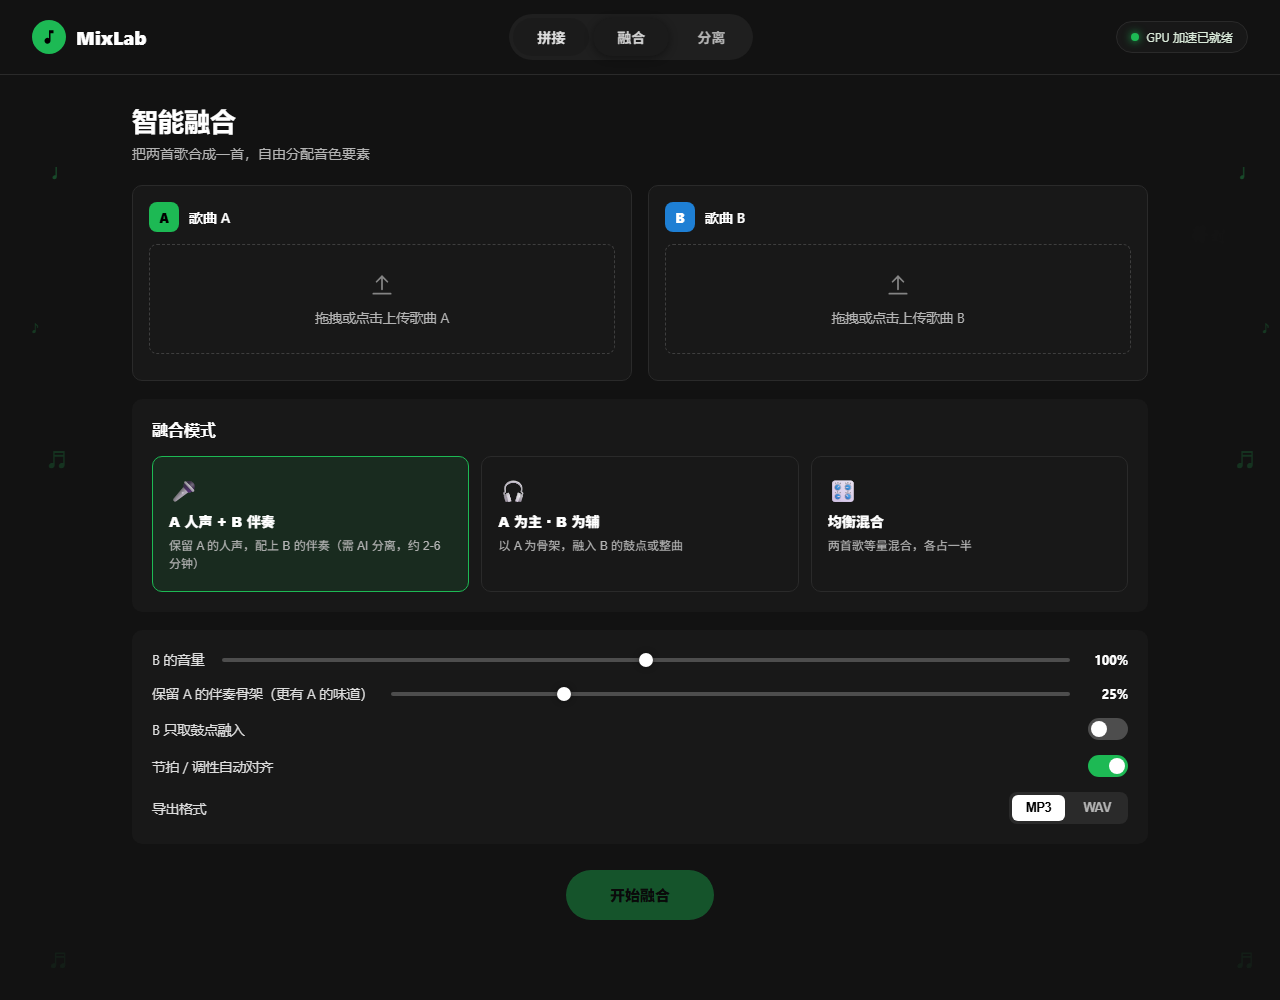
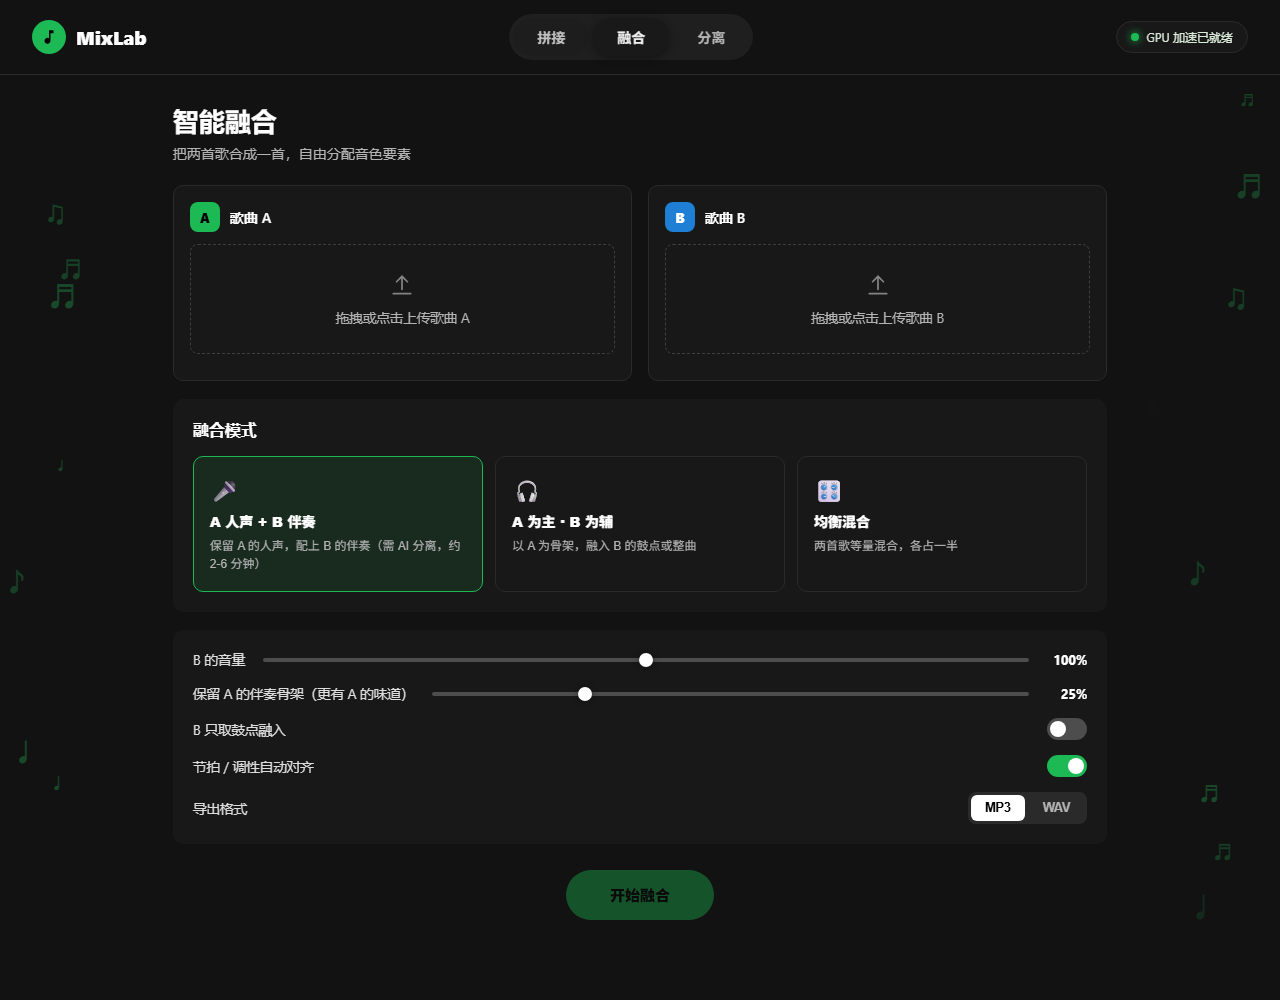
Give narrow windows wider side zones (78vw container) with more notes

diff --git a/frontend/app.js b/frontend/app.js
@@ -648,7 +648,7 @@ function showSideLyric(side) {
   if (!layer) return;
   const item = pickLyric();
   const W = window.innerWidth;
-  const contentW = Math.min(1080, W * 0.92);
+  const contentW = Math.min(1080, W * 0.78);
   const sideW = Math.max(80, (W - contentW) / 2);
   const el = document.createElement("div");
   el.className = `lyric-item side-${side}`;
@@ -704,7 +704,7 @@ function initLyricBg() {
     const dpr = window.devicePixelRatio || 1;
     W = window.innerWidth;
     H = window.innerHeight;
-    const contentW = Math.min(1080, W * 0.92);
+    const contentW = Math.min(1080, W * 0.78);
     sideW = Math.max(80, (W - contentW) / 2);
     canvas.width = W * dpr;
     canvas.height = H * dpr;
@@ -732,7 +732,7 @@ function initLyricBg() {
 
   function rebuild() {
     parts.length = 0;
-    const perSide = sideW < 180 ? 4 : sideW < 280 ? 6 : 8;
+    const perSide = sideW < 110 ? 5 : sideW < 200 ? 7 : 9;
     for (let i = 0; i < perSide; i++) parts.push(spawn(true, "left"));
     for (let i = 0; i < perSide; i++) parts.push(spawn(true, "right"));
   }

diff --git a/frontend/styles.css b/frontend/styles.css
@@ -48,7 +48,7 @@ body {
   transition: opacity 0.5s ease;
 }
 
-.container { position: relative; z-index: 2; max-width: 1080px; margin: 0 auto; padding: 28px 32px 70px; }
+.container { position: relative; z-index: 2; max-width: min(1080px, 78vw); margin: 0 auto; padding: 28px 32px 70px; }
 .footer { position: relative; z-index: 2; text-align: center; padding: 26px 0 40px; color: #6a6a6a; font-size: 12px; }
 
 /* ---------- 顶部导航 ---------- */
@@ -441,7 +441,7 @@ body.busy #lyric-bg {
 }
 
 /* 窄屏时隐藏背景歌词，避免遮挡内容 */
-@media (max-width: 1100px) {
+@media (max-width: 760px) {
   #lyric-layer { display: none; }
 }
 
